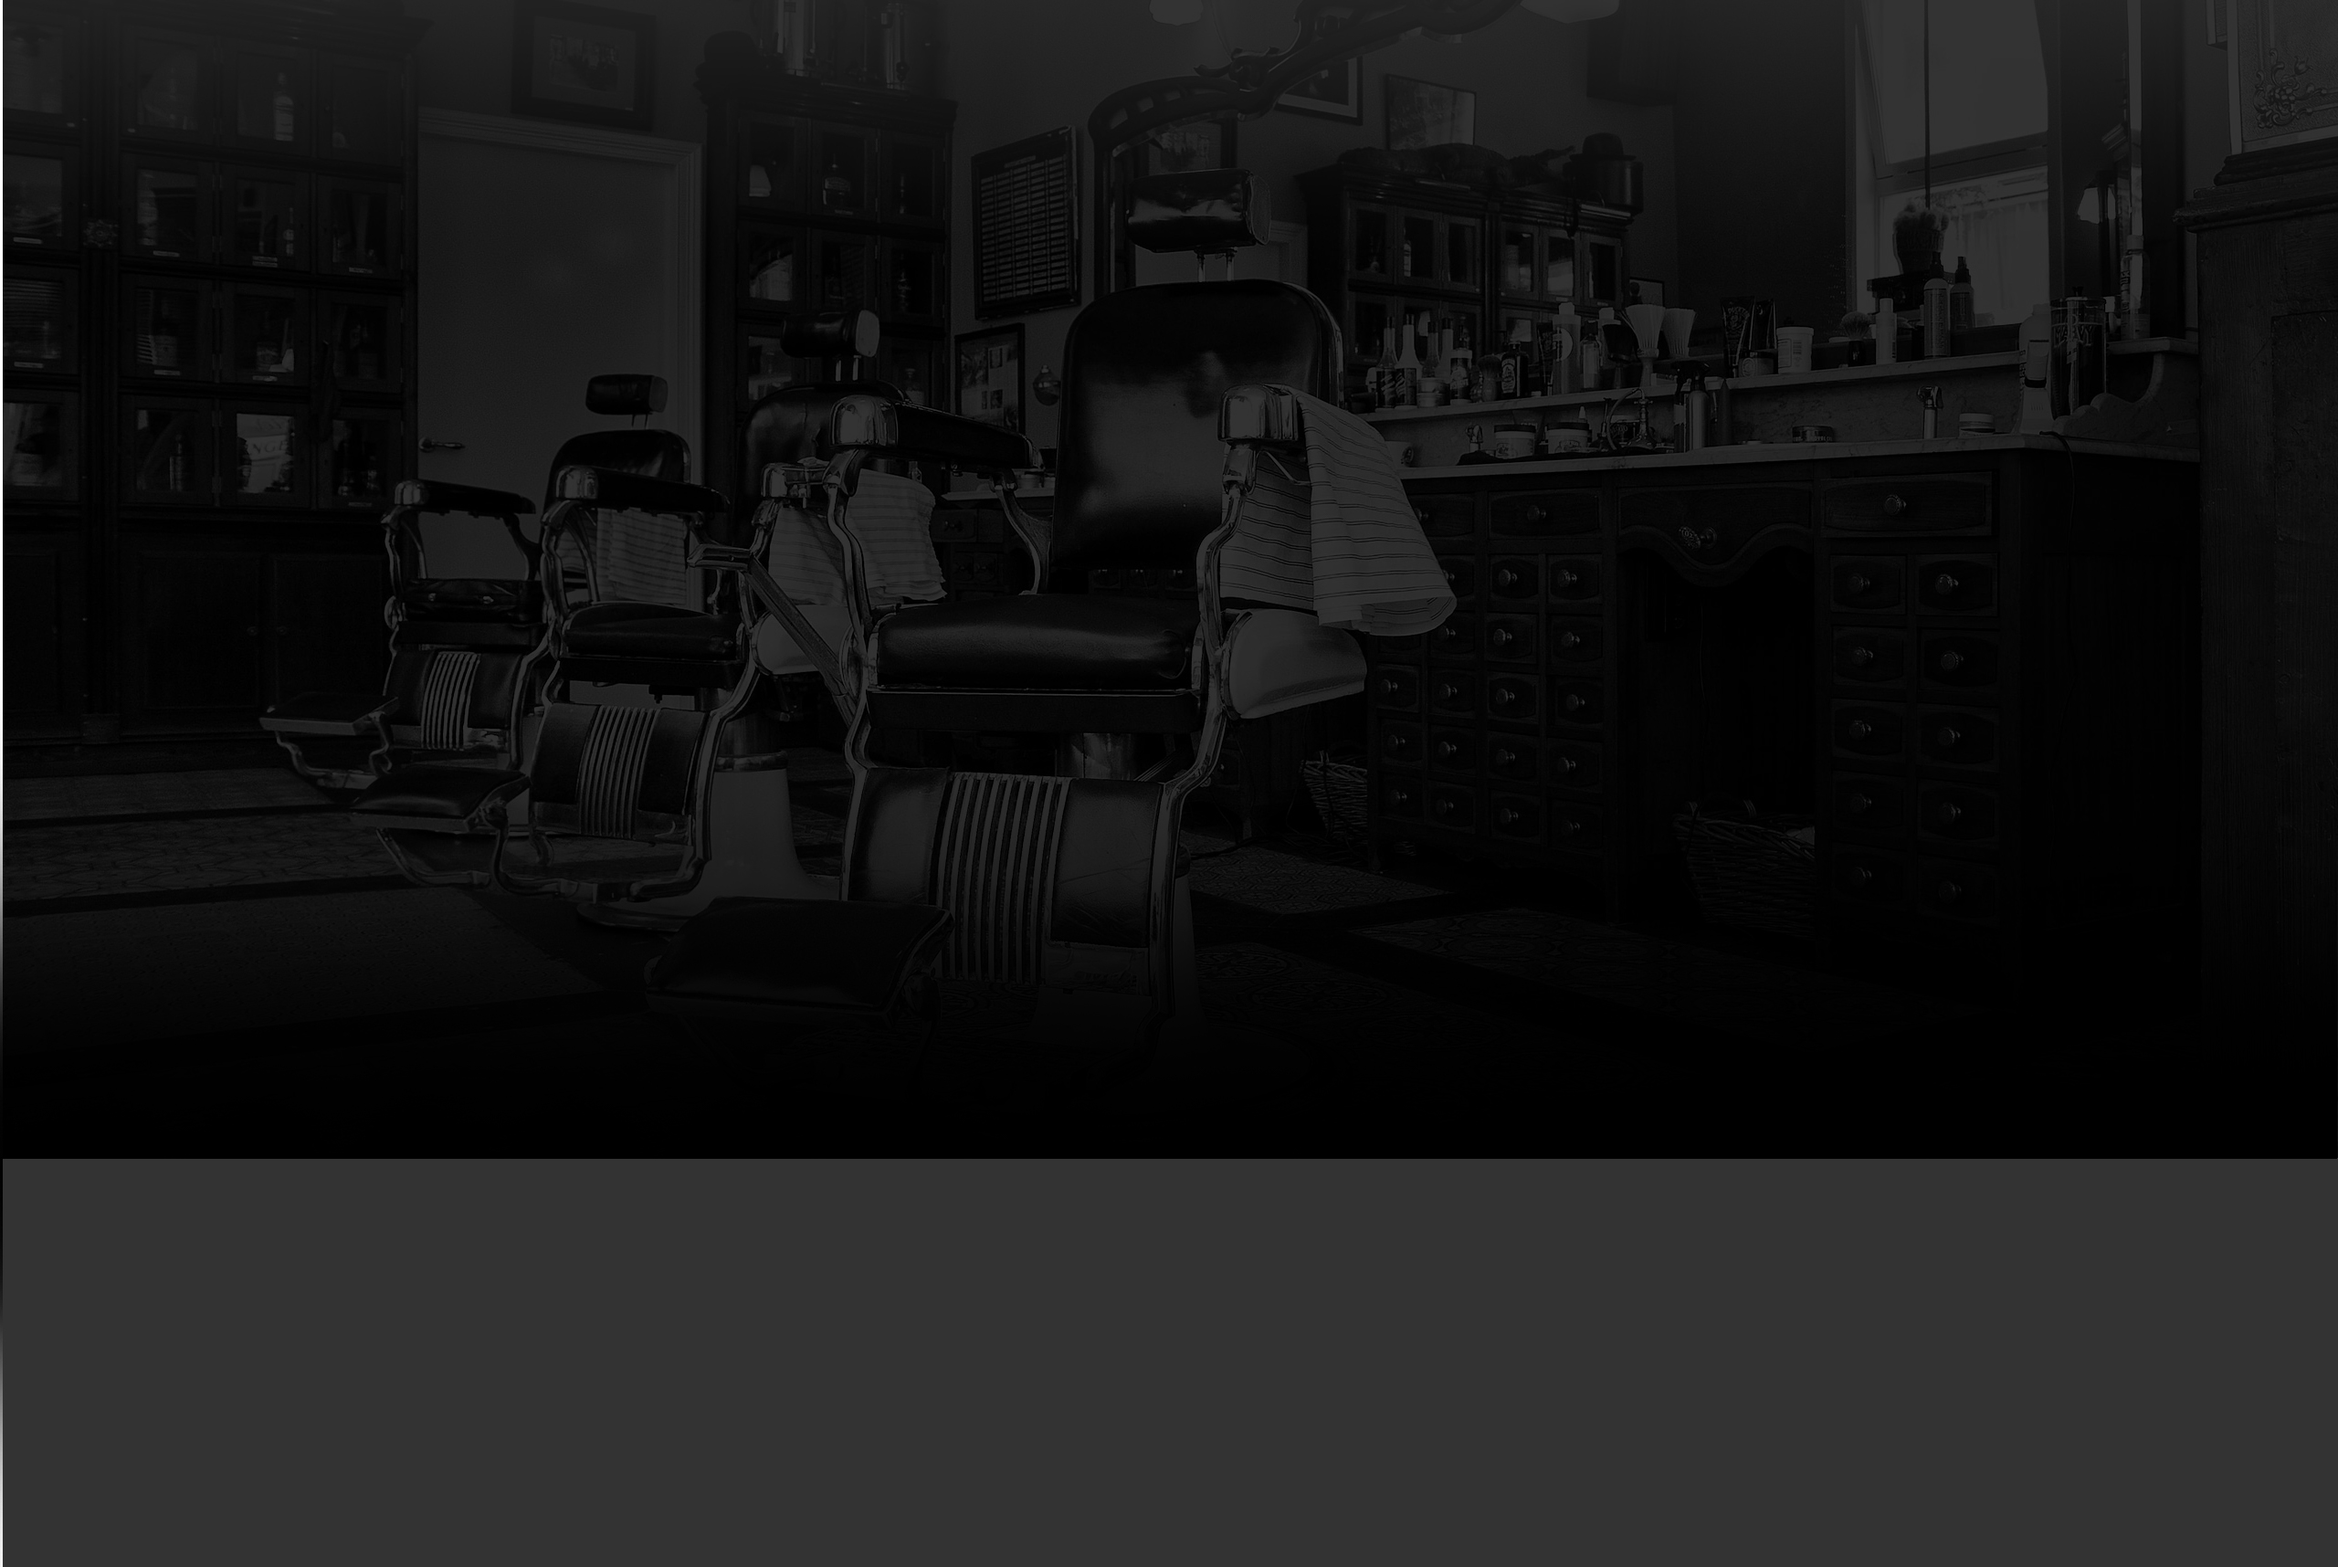
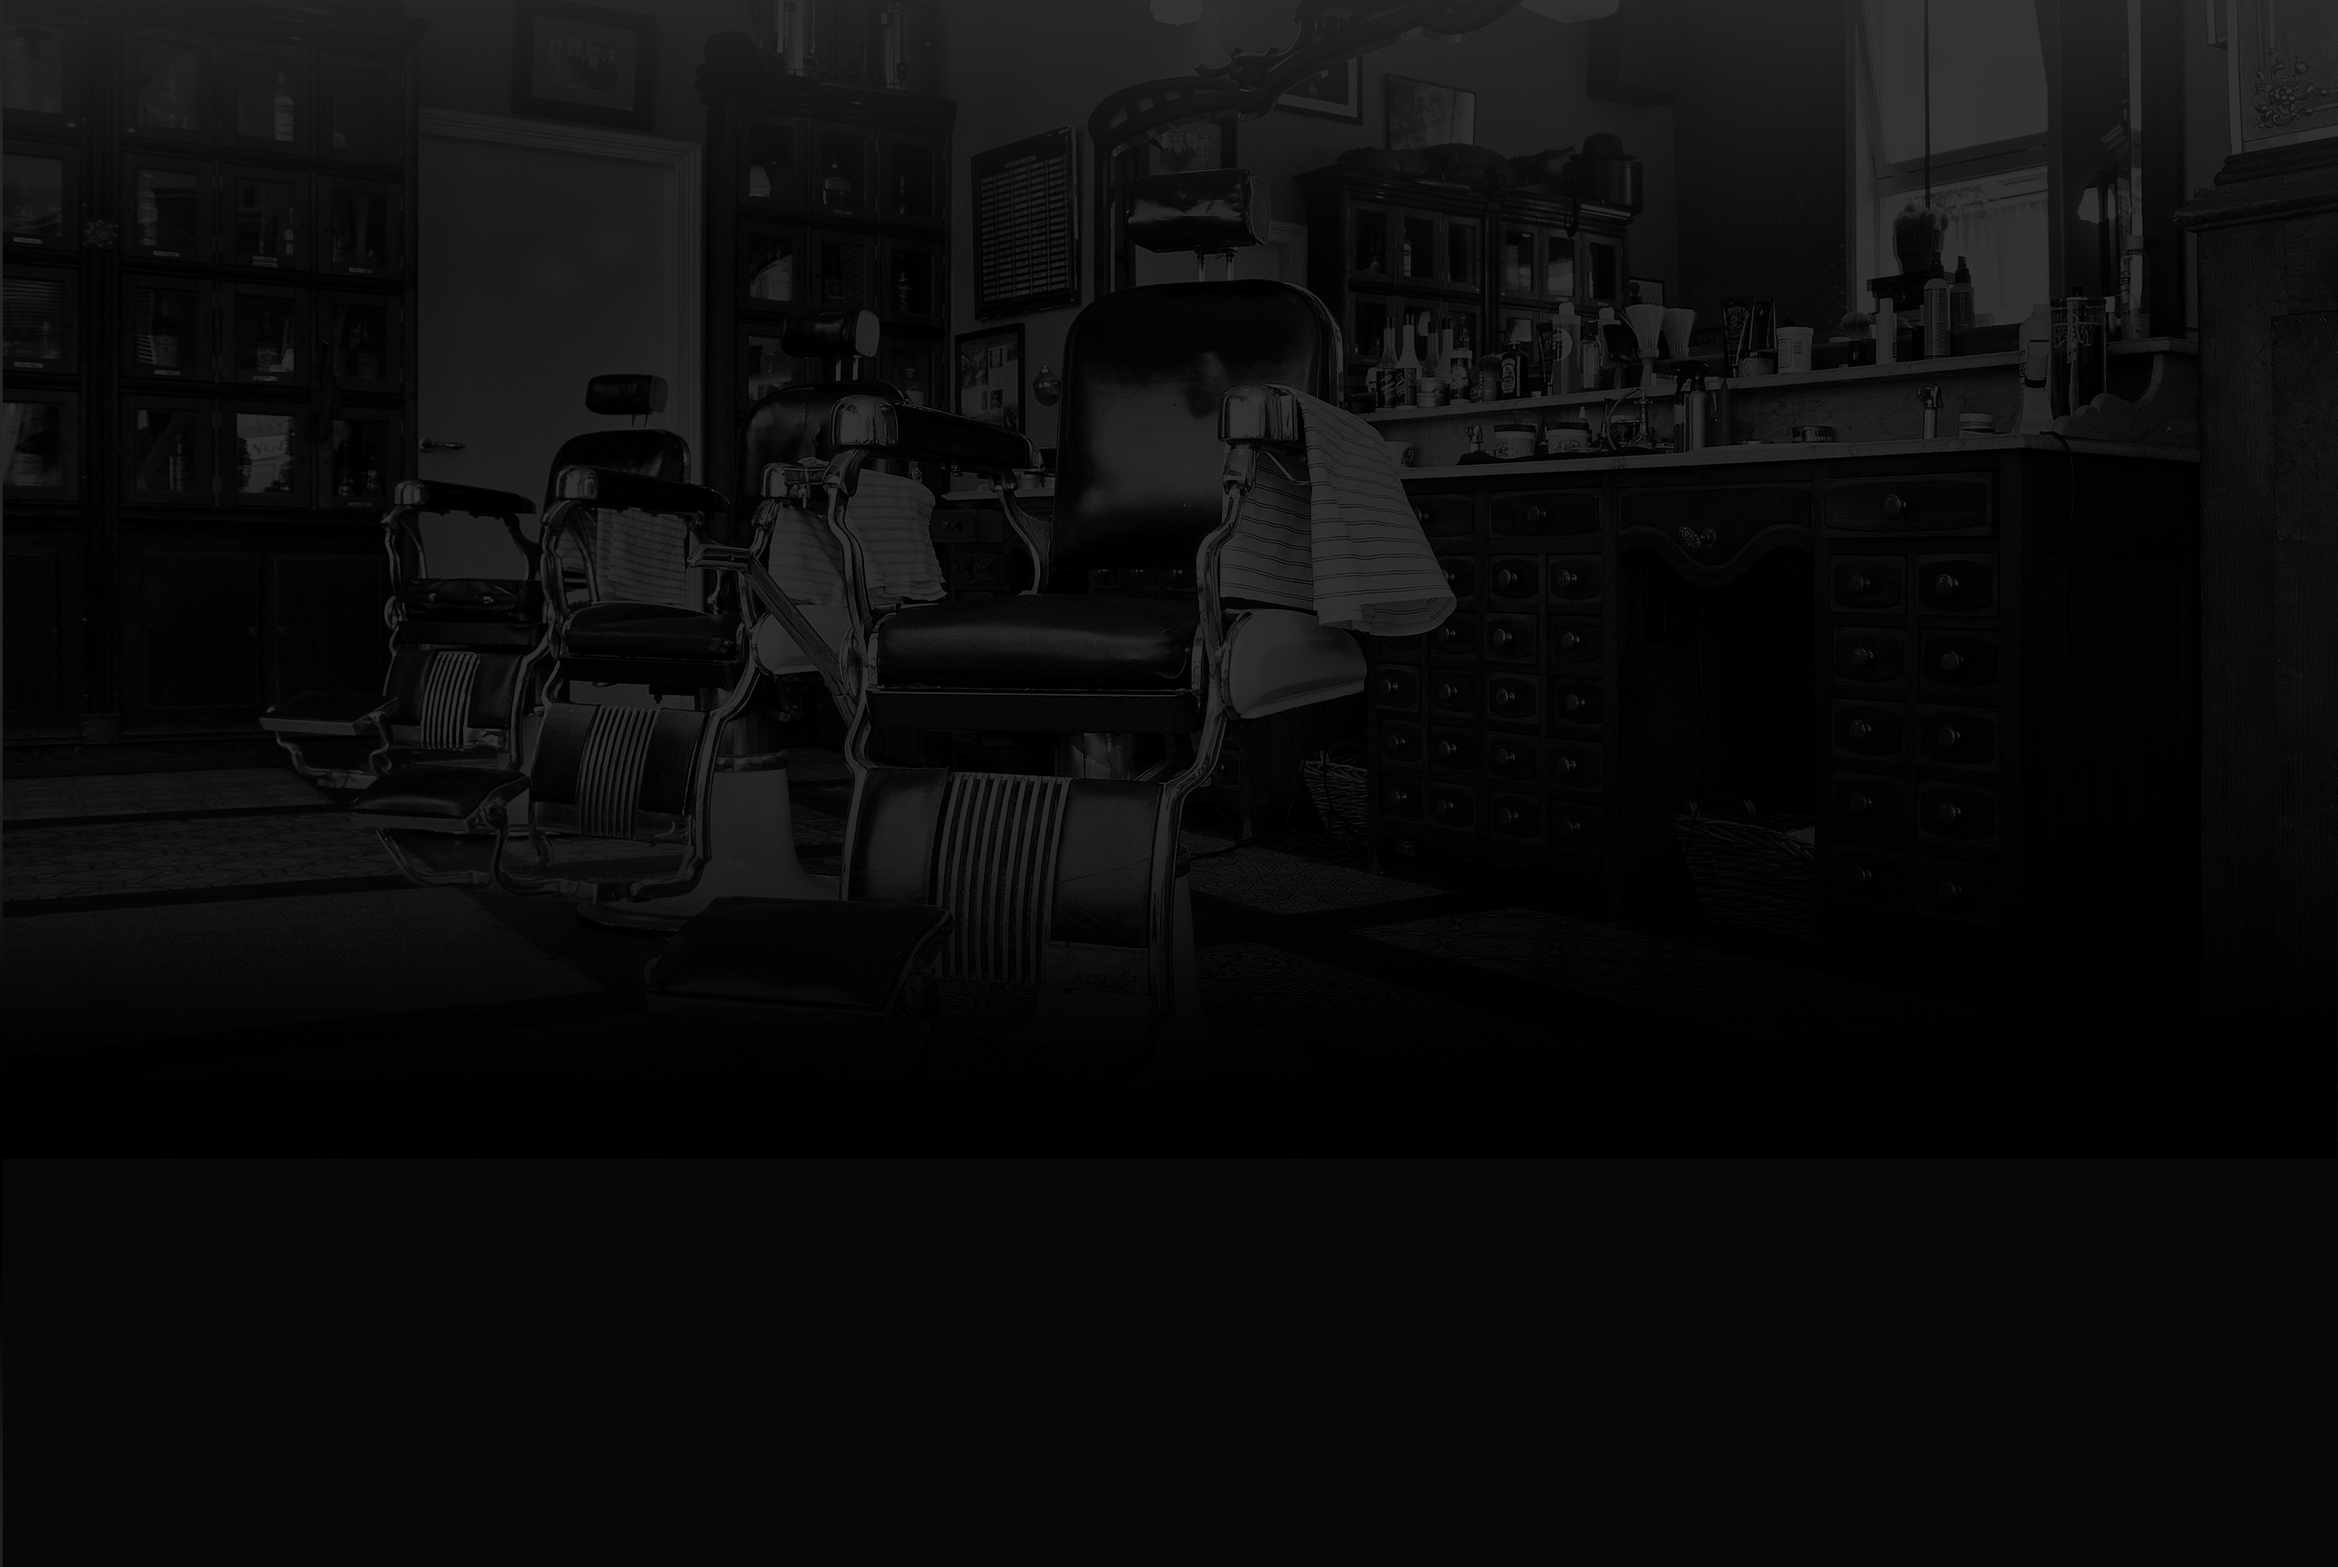
minor footer

Changed region(s): [[0.0, 0.7413, 1.0, 1.0]]

diff --git a/css/style.css b/css/style.css
@@ -92,7 +92,7 @@ body {
 	left: 25px;
 	width: 18px;
 	height: 18px;
-	background: url("../img/login.png") no-repeat;
+	background: url("../img/sprite/spritesheet.png") -10px -208px no-repeat;
 	opacity: 0.3;
 }
 .login:hover::before {
@@ -269,28 +269,127 @@ body {
 .appointment-form input:hover {
 	border-color: #663d15;
 }
+.appointment-form .btn {
+	width: 100%;
+}
+
+
+/*.sprite {
+    background-image: url(spritesheet.png);
+    background-repeat: no-repeat;
+    display: block;
+}
+
+.sprite-X {
+    width: 12px;
+    height: 12px;
+    background-position: -10px -10px;
+}
+
+.sprite-f {
+    width: 12px;
+    height: 22px;
+    background-position: -10px -42px;
+}
+
+.sprite-f-copy {
+    width: 12px;
+    height: 22px;
+    background-position: -10px -84px;
+}
+
+.sprite-inst {
+    width: 21px;
+    height: 21px;
+    background-position: -10px -126px;
+}
+
+.sprite-inst-copy {
+    width: 21px;
+    height: 21px;
+    background-position: -10px -167px;
+}
+
+.sprite-login {
+    width: 18px;
+    height: 16px;
+    background-position: -10px -208px;
+}
+
+.sprite-v {
+    width: 25px;
+    height: 16px;
+    background-position: -10px -244px;
+}
+
+.sprite-v-copy {
+    width: 25px;
+    height: 16px;
+    background-position: -10px -280px;
+}*/
+
 
 /*     /////      .footer -->       //////        */
 .main-footer {
-	background: #fff url(../img/footer-bg.png) 0 0 no-repeat;
 	height: 190px;
 	margin-top: 65px;
 	padding-top: 60px;
 	padding-bottom: 40px;
+	background: #222222 url(../img/footer-bg.png) 0 0 no-repeat;
 }
 .main-footer-layout {
-	display: -webkit-flex;
-	display: -moz-flex;
-	display: -ms-flex;
-	display: -o-flex;
 	display: flex;
 }
 .footer-contacts {
 	width: 320px;
 	margin-right: 60px;
 }
+.footer-contacts a {
+	color: #fff;
+}
+.footer-contacts a:hover {
+	text-decoration: none;
+	color: #6f6d6d;
+}
+
 .footer-social {
 	width: 260px;
+}
+.footer-social a {
+	font-size: 0;
+}
+.footer-social a::before {
+	content: "";
+	display: inline-block;
+	width: 43px;
+	height: 43px;
+		transform: background-position 0.5s,
+		color 0.5s;
+
+}
+.social-btn::before {
+	background: #000 url("../img/sprite/spritesheet.png");
+}
+.social-btn:hover::before {
+	background-color: #fff;
+}
+.social-btn-vk::before {
+	background-position: -10px -244px;
+}
+.social-btn-vk:hover::before {
+  background-position: -10px -280px;
+}
+.social-btn-fb::before {
+	background-position: -10px -42px;
+}
+.social-btn-fb:hover::before {
+	background-position: -10px -84px;
+}
+.social-btn-inst::before {
+	background-position: -10px -126px;
+}
+.social-btn-inst:hover::before {
+	background-position: -10px -167px;
 }
 .footer-copiright {
 	width: 160px;

diff --git a/index.html b/index.html
@@ -123,7 +123,7 @@
   			<section class="footer-contacts">
   				БАРБЕРШОП «БОРОДИНСКИЙ»<br>
 					АДРЕС: Г. САНКТ-ПЕТЕРБУРГ, УЛ. Б. КОНЮШЕННАЯ, Д. 19/8<br>
-					КАК НАС НАЙТИ?<br>
+					<a href="#">КАК НАС НАЙТИ?</a><br>
 					ТЕЛЕФОН: +7 (495) 666-02-66
   			</section>
 
